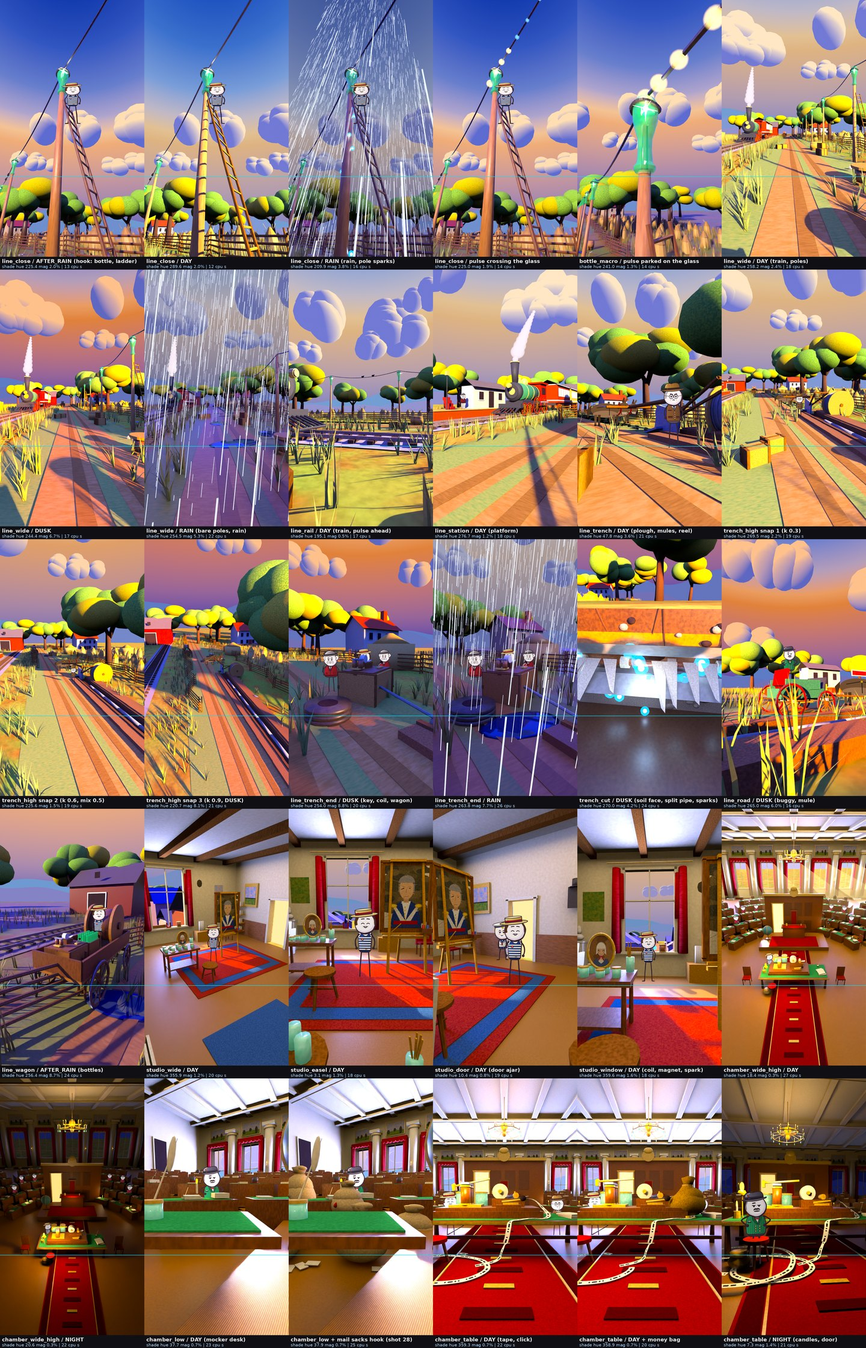
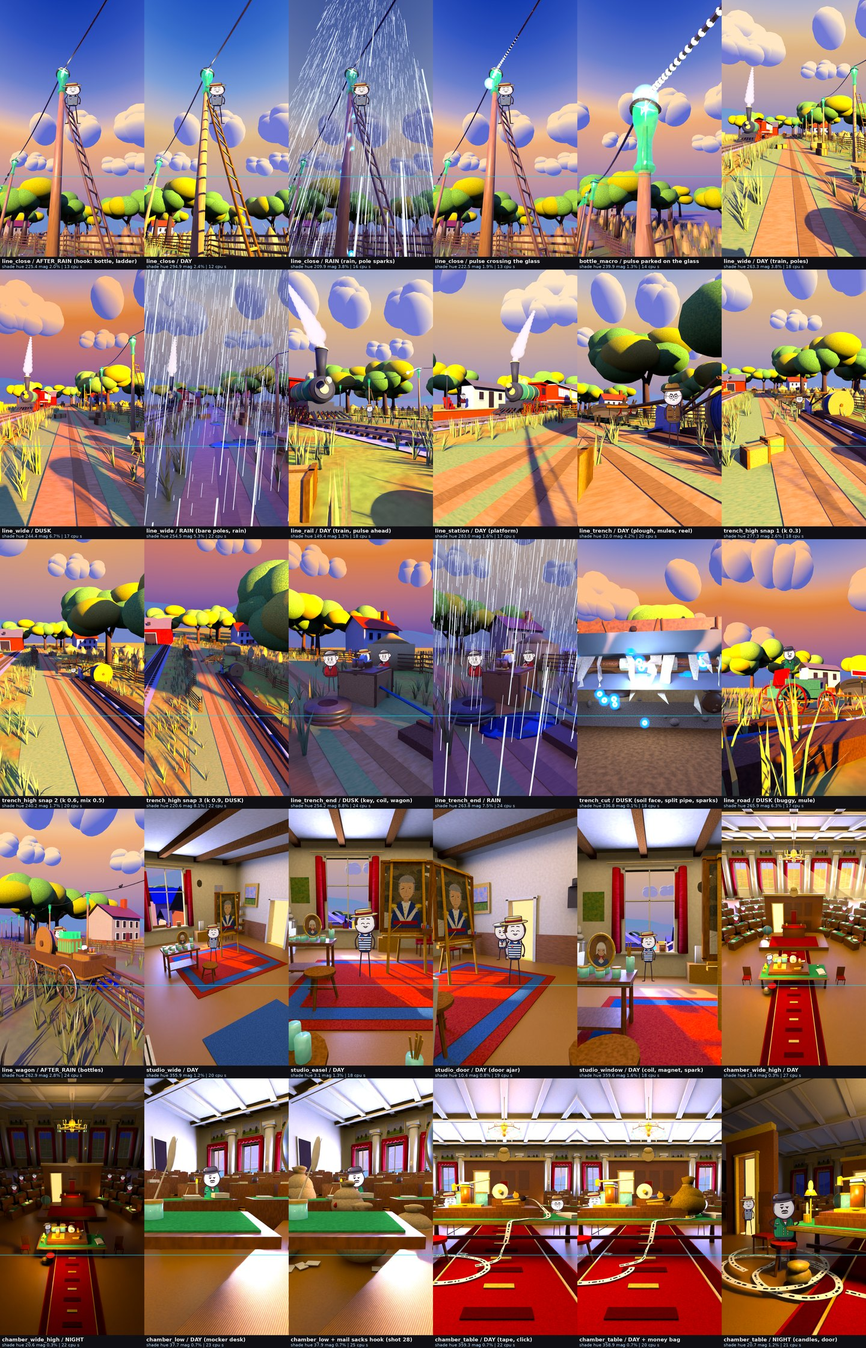
Film 16 set3d16: SET-gate fix round 2 (6 blockers)
Claude-Session: https://claude.ai/code/session_017iwyCubH2HLT9mxU3qDwtU

diff --git a/film/v3/set3d16/telegraph.py b/film/v3/set3d16/telegraph.py
@@ -35,7 +35,7 @@ def kdir(az, el):
 
 _L = dict(sun_angle=1.0, exposure=0.0, sat=1.08, wet=0.0, cloud_k=1.0, hill_k=1.0, fill=0.0, win=0.0, candle=0.0, lamp=0.0)
 LINE_LIGHTS = dict(
-    DAY=dict(_L, key=(1.0, 0.85, 0.63, 14.0), az=150, el=24, sky_k=0.85, amb=('#3e58ff', 2.2),
+    DAY=dict(_L, key=(1.0, 0.85, 0.63, 14.0), az=150, el=24, sky_k=0.85, amb=('#4256ff', 2.2),
              sky=['#8a92d8', '#efc698', '#f3d3a8', '#cdc8d8', '#8db0ec', '#5a86e0', '#3a5acb'], hills=['#9a9ad2', '#8aa0d8', '#7ea4d6'], cloud=('#ffeacc', '#7c84d8')),
     DUSK=dict(_L, key=(1.0, 0.55, 0.3, 27.0), az=150, el=12, sun_angle=1.3, sky_k=0.95, amb=('#3a62ff', 2.9),
               sky=['#4a52b8', '#e6905a', '#f0a876', '#b8a4c0', '#6a86d8', '#3e58c0', '#262c98'], hills=['#7a78b8', '#6e7cc0', '#6a84c8'], cloud=('#ffc89a', '#6a72c4')),
@@ -395,7 +395,7 @@ CAMS_M = dict(
     line_wide=((-0.2, -6.0, 1.9), (1.6, 30.0, 2.9)),
     line_close=((2.9, 0.7, 1.2), (4.6, 3.9, 3.7)),
     bottle_macro=((3.5, 2.0, 4.6), (4.35, 4.0, 5.7)),
-    line_rail=((-14.5, 12.0, 1.4), (2.0, 17.0, 2.9)),
+    line_rail=((-13.0, 12.0, 1.4), (2.0, 30.0, 2.9)),
     line_station=((3.0, 33.0, 1.6), (-10.5, 52.0, 2.4)),
     line_trench=((-0.6, 27.2, 1.0), (3.4, 33.5, 1.6)),
     line_trench_high=((-2.0, 16.0, 4.5), (3.6, 34.0, 0.8)),
@@ -403,9 +403,9 @@ CAMS_M = dict(
     line_trench_snap2=((-1.5, 22.0, 4.2), (3.3, 41.0, 0.8)),
     line_trench_snap3=((-2.0, 34.0, 7.5), (3.3, 58.0, 0.4)),
     line_trench_end=((0.6, 60.0, 1.8), (3.8, 65.0, 1.0)),
-    trench_cut=((52.3, 11.1, 0.1), (52.0, 13.3, -0.85)),
+    trench_cut=((52.2, 11.0, -1.05), (52.0, 13.3, -0.75)),
     line_road=((6.4, 32.6, 1.0), (1.0, 36.0, 1.8)),
-    line_wagon=((1.8, 65.0, 2.9), (-1.9, 70.0, 1.4)),
+    line_wagon=((-4.6, 63.8, 2.5), (-0.9, 69.5, 2.2)),
     # STUDIO
     studio_wide=((-3.3, -2.2, 3.0), (1.0, 4.6, 0.6)),
     studio_easel=((-0.2, -0.6, 1.5), (-0.2, 3.6, 0.95)),
@@ -415,7 +415,7 @@ CAMS_M = dict(
     chamber_wide_high=((0.0, -5.0, 8.0), (0.0, 14.0, -1.0)),
     chamber_low=((-3.0, 8.6, 1.05), (-5.27, 12.27, 0.55)),
     chamber_table=((0.1, -0.3, 1.5), (0.1, 5.6, 1.15)),
-    chamber_table_night=((-0.95, -0.4, 1.45), (0.3, 13.0, 0.9)),
+    chamber_table_night=((-0.5, 0.6, 1.45), (-4.5, 7.5, 1.2)),
 )
 EXTRA_CAMS = {'line': ['line_station', 'line_trench_snap1', 'line_trench_snap2', 'line_trench_snap3'], 'studio': [], 'chamber': ['chamber_table_night']}
 LIGHT_CAM = {('chamber_table', 'NIGHT'): 'chamber_table_night'}
@@ -460,7 +460,7 @@ PRESETS = dict(
     line_close=dict(loc='line', light='AFTER_RAIN', cam='line_close', state=dict(poles=('bottle', 17), trench=0.0, pipe=0.0, train=None)),
     bottle_macro=dict(loc='line', light='AFTER_RAIN', cam='bottle_macro', state=dict(poles=('bottle', 17), trench=0.0, pipe=0.0, train=None, pulse=('pole', 1))),
     line_wide=dict(loc='line', light='DAY', cam='line_wide', state=dict(poles=('bottle', 17), trench=0.0, pipe=0.0, train='home')),
-    line_rail=dict(loc='line', light='DAY', cam='line_rail', state=dict(poles=('bottle', 17), trench=0.0, pipe=0.0, train=31.5, pulse=('y', 9.5))),
+    line_rail=dict(loc='line', light='DAY', cam='line_rail', state=dict(poles=('bottle', 17), trench=0.0, pipe=0.0, train=40.7, pulse=('y', 23.5))),
     line_trench=dict(loc='line', light='DAY', cam='line_trench', state=dict(poles=('none', 0), trench=0.5, pipe=0.45, train=None)),
     line_trench_high=dict(loc='line', light='DAY', cam='line_trench_high', state=dict(poles=('none', 0), trench=0.7, pipe=0.6, train=None)),
     line_trench_end=dict(loc='line', light='DUSK', cam='line_trench_end', state=dict(poles=('none', 0), trench=1.0, pipe=1.0, train=None)),
@@ -686,7 +686,7 @@ def set_leak(where='pipe', intensity=1.0, frame=None):
         if frame is not None: _keyxf(core, frame, True, False, True); _keyxf(halo, frame, True, False, True)
 
 def _make_sparks(where):
-    M = STATE['M']; core_m = _emit_mat('sparkcore', '#c8e8ff', 30.0); halo_m = _emit_mat('sparkhalo', '#4a8cff', 6.0, 0.35); rr = rnd(55); objs = []; ph = []
+    M = STATE['M']; core_m = _emit_mat('sparkcore', '#c8e8ff', 40.0); halo_m = _glow_mat('sparkhalo', '#4a8cff', 4.0, 3.0); rr = rnd(55); objs = []; ph = []
     n = 18 if where == 'pipe' else 12
     for j in range(n):
         for nm, m_ in (('c', core_m), ('h', halo_m)):
@@ -712,20 +712,28 @@ def _make_sparks(where):
     return dict(objs=[tuple(o) for o in objs], rate=rate, ph=ph)
 
 def set_pulse(s, frame=None):
-    """glowing bead + short trail travelling along the wire: s 0..1 over the whole line (over every bottle neck in 'bottle' state); s < 0 hides it."""
+    """hot cyan-white bead + a continuous tapered trail (41 beads, tightly spaced) along the whole wire, s 0..1 (path follows the current pole state: over the glass of every bottle, or the bare wire);
+    a small cyan light travels with the head (rim glow inside the glass when it is parked on a bottle); s < 0 hides it."""
     _line_only()
     if 'pulse' not in STATE:
         if s < 0: return
         _make_pulse()
     Pz = STATE['pulse']; st = STATE.get('pole_state', ('bottle', LN.NPOLE))[0]; st = st if st in ('bottle', 'bare') else 'bottle'
-    pts, cum = STATE['wire_pts'][st]; tot = cum[-1]
+    pts, cum = STATE['wire_pts'][st]; tot = cum[-1]; lo = STATE['pulse_light']
     for k, (core, halo, lag) in enumerate(Pz):
-        ss = s - lag
-        if s < 0 or ss < 0 or ss > 1: _show([core, halo], False, frame); continue
+        ss = s - lag; objs = [core] + ([halo] if halo is not None else [])
+        if s < 0 or ss < 0 or ss > 1:
+            _show(objs, False, frame)
+            if k == 0: _setv(lo, False, frame)
+            continue
         d = ss * tot; i = int(np.searchsorted(cum, d)); i = max(1, min(i, len(cum) - 1)); u = (d - cum[i - 1]) / max(1e-6, cum[i] - cum[i - 1])
-        p = Vector(pts[i - 1]).lerp(Vector(pts[i]), u); pw = W(p); _show([core, halo], True, frame)
-        core.location = halo.location = pw; sc_ = 1.0 - 0.09 * k; core.scale = (sc_,) * 3; halo.scale = (sc_,) * 3
-        if frame is not None: _keyxf(core, frame, True, False, True); _keyxf(halo, frame, True, False, True)
+        p = Vector(pts[i - 1]).lerp(Vector(pts[i]), u); pw = W(p); _show(objs, True, frame)
+        for o in objs: o.location = pw
+        if frame is not None:
+            for o in objs: _keyxf(o, frame)
+        if k == 0:
+            lo.location = pw; _setv(lo, True, frame)
+            if frame is not None: _keyxf(lo, frame)
 
 def _glow_mat(name, hexcol, k, power=1.6):
     """soft glow: emission whose opacity is 1 at the centre and falls to 0 at the silhouette"""
@@ -736,13 +744,17 @@ def _glow_mat(name, hexcol, k, power=1.6):
     L(K.cos_facing(nt, power), mx.inputs[0]); L(tr.outputs[0], mx.inputs[1]); L(em.outputs[0], mx.inputs[2]); L(mx.outputs[0], out.inputs['Surface']); MATS[name] = m; return m
 
 def _make_pulse():
-    core_m = _emit_mat('pulsecore', '#fff6d0', 90.0); halo_m = _glow_mat('pulsehalo', '#ffd890', 3.2, 3.0); halo2_m = _glow_mat('pulsehalo2', '#78b8ff', 2.0, 3.0); L = []
-    for k in range(10):
-        r = 0.032 * (1.0 - 0.07 * k) * SC
-        mb = MB('pulse_c%d' % k); mb.T = Matrix.Identity(4); mb.ell(core_m, (0, 0, 0), (r,) * 3, (12, 8)); c = mb.finish()[0]
-        mb = MB('pulse_h%d' % k); mb.T = Matrix.Identity(4); mb.ell(halo_m if k < 4 else halo2_m, (0, 0, 0), (r * 5.0,) * 3, (14, 10)); h = mb.finish()[0]
-        for o in (c, h): o.visible_shadow = False; o.visible_glossy = False
-        L.append((c, h, 0.0036 * k))
+    """ONE hot cyan-white head (core + small soft glow + a small cyan light) and a continuous tapered trail of 40 tightly spaced beads along the wire"""
+    core_m = _emit_mat('pulsecore', '#e4fbff', 80.0); halo_m = _glow_mat('pulsehalo', '#8fe0ff', 5.0, 2.5); L = []
+    for k in range(41):
+        r = (0.050 * (1.0 - k / 41.0) ** 1.3 + 0.006) * SC
+        mb = MB('pulse_c%d' % k); mb.T = Matrix.Identity(4); mb.ell(core_m, (0, 0, 0), (r,) * 3, (12, 8) if k < 6 else (8, 6)); c = mb.finish()[0]; c.visible_shadow = False; c.visible_glossy = False
+        h = None
+        if k == 0:
+            mb = MB('pulse_h0'); mb.T = Matrix.Identity(4); mb.ell(halo_m, (0, 0, 0), (r * 4.2,) * 3, (14, 10)); h = mb.finish()[0]; h.visible_shadow = False; h.visible_glossy = False
+        L.append((c, h, 0.0007 * k))
+    ld = bpy.data.lights.new('pulse_light', 'POINT'); ld.color = (0.55, 0.85, 1.0); ld.energy = 5.0 * SC * SC; ld.shadow_soft_size = 0.05 * SC; ld.use_shadow = False
+    lo = bpy.data.objects.new('pulse_light', ld); bpy.context.scene.collection.objects.link(lo); STATE['pulse_light'] = lo
     STATE['pulse'] = L
 
 # ----------------------------------------------------------------------------- CLI

diff --git a/film/v3/set3d16/tg_line.py b/film/v3/set3d16/tg_line.py
@@ -196,7 +196,8 @@ def wagon2(mb, M, c, yaw=0.0):
     for sy in (-0.52, 0.52): mb.cyl(M['woodpale'], (1.2, sy, z0 - 0.1), 0.85, 0.1, 'y', 24)
     mb.cyl(M['spool'], (1.2, 0, z0 - 0.1), 0.66, 0.96, 'y', 24, True); mb.cyl(M['wood'], (1.2, 0, z0 - 0.1), 0.15, 1.3, 'y', 10)
     mb.rod(M['wiremat'], (1.2, -0.3, z0 - 0.1 + 0.66), (1.9, -0.3, 1.1), 0.02, 0.02, 4)
-    bottle_crate(mb, M, (-0.35, 0.0, 1.01), 0.0, (6, 3), 2.4)
+    mb.box(M['woodpale'], (-0.35, 0.0, 1.26), (1.0, 0.8, 0.5)); mb.box(M['wood'], (-0.35, 0.0, 1.52), (1.04, 0.84, 0.04))        # pallet box lifts the bottle crate above the side boards
+    bottle_crate(mb, M, (-0.35, 0.0, 1.54), 0.0, (6, 3), 2.9)
     key_station(mb, M, (-1.6, 0.0, 1.01), 0.0, 1.0)
     mb.pop()
 
@@ -345,8 +346,8 @@ def build_line(ST, P):
         for i in range(5): mb.ell(M['earth'], (xc(y0) + 3.4 + i * 0.4 + 0.0, y0 + i * 0.2, 0.15), (0.55, 0.45, 0.28), (8, 6)) if False else None
     mb.finish()
     # ----- trench (clipped by the TRENCH group) + pipe (PIPE group)
-    mtd = mat('trdark', '#4a2c1c', '#5e3a26', 3, clip='TRENCH'); mte = mat('trearth', '#8c5a38', '#b0744a', 6, contrast=1.3, wet=True, clip='TRENCH')
-    mpl = mat('leadclip', '#948d80', '#aaa396', 3, rough=0.5, sheen=0.05, clip='PIPE'); mbd = mat('trwall', '#6a4228', '#8a5a38', 5, contrast=1.3, clip='TRENCH')
+    mtd = mat('trdark', '#3a2216', '#4a2c1c', 3, clip='TRENCH'); mte = mat('trearth', '#5e3a24', '#7a4c30', 6, contrast=1.3, wet=True, clip='TRENCH')
+    mpl = mat('leadclip', '#7a7d84', '#7a7d84', 3, rough=1.0, sheen=0.0, clip='PIPE'); mbd = mat('trwall', '#4e301e', '#6a4228', 5, contrast=1.3, clip='TRENCH')
     mb = MB('trench')
     for y0 in range(int(Y0), int(Y1) + 4, 2):
         xt = xc(y0 + 1) + 2.3
@@ -454,7 +455,7 @@ def build_pit(ST, M):
     cx, cy = PIT; hw, hl, d = PIT_HW, PIT_HL, PIT_D; fy = cy + hl; z0 = -0.72; R_ = 0.17
     top = mat('strat_top', '#4a2c1c', '#6a4228', 5, contrast=1.5, rough=0.45, sheen=0.3, wet=True); clay = mat('strat_clay', '#a8683c', '#c8844c', 5, contrast=1.3, rough=0.5, sheen=0.25, wet=True)
     sand = mat('strat_sand', '#c89c64', '#e0b878', 6, contrast=1.3, rough=0.55, sheen=0.2, wet=True); grav = mat('strat_grav', '#8a7664', '#b09c88', 14, contrast=1.9, rough=0.5, sheen=0.2, wet=True)
-    mud = mat('strat_mud', '#3a2418', '#52341f', 5, rough=0.35, sheen=0.4)
+    mud = mat('strat_mud', '#5a3a24', '#7a5030', 5, contrast=1.5, rough=1.0, sheen=0.0)
     mb = MB('pit')
     bands = [(0.0, -0.32, top), (-0.32, -0.85, clay), (-0.85, -1.25, sand), (-1.25, -d, grav)]
     def wall(x0, x1, y_, facing, bnds=bands):
@@ -503,13 +504,19 @@ def build_pit(ST, M):
         xx = x1 + 0.1 + i * 0.12; mb.rod(cloth if i % 2 else tar, (xx, yw, z0 - 0.06), (xx + 0.08, yw, z0 + 0.06), 0.085, 0.085, 8)
     for i in range(7):                                                                      # remnants of the wrapping inside the split, ragged
         xx = x0 + 0.25 + i * 0.33; mb.rod(cloth, (xx, yw, z0 + 0.0), (xx + 0.12, yw, z0 + 0.0), 0.09, 0.09, 8) if i % 2 == 0 else None
-    for i in range(16):                                                                     # torn strips hanging toward the camera and down
-        xx = rcl.uniform(x0 - 0.3, x1 + 0.3); ln = rcl.uniform(0.25, 0.65); sg = rcl.choice((-1, 1)) * 0.12
-        mb.quad(cloth, [(xx, yw - 0.1, z0 + 0.08), (xx + 0.2, yw - 0.1, z0 + 0.08), (xx + 0.1 + sg, yw - 0.28 - ln * 0.3, z0 + 0.08 - ln), (xx + sg * 1.4, yw - 0.26 - ln * 0.3, z0 + 0.08 - ln * 0.9)])
+    for i in range(22):                                                                     # ragged torn cloth strips: jagged outline, different lengths, hanging toward the camera and down
+        xx = rcl.uniform(x0 - 0.35, x1 + 0.35); ln = rcl.uniform(0.18, 0.7); w0_ = rcl.uniform(0.05, 0.16); drift = rcl.uniform(-0.12, 0.12)
+        left = [(xx, yw - 0.1, z0 + 0.1)]; right = [(xx + w0_, yw - 0.1, z0 + 0.1)]
+        for j in range(1, 5):
+            u = j / 4.0; zz = z0 + 0.1 - ln * u; yy = yw - 0.1 - 0.18 * u
+            left.append((xx + drift * u + rcl.uniform(-0.03, 0.03), yy, zz)); right.append((xx + w0_ * (1.0 - 0.5 * u) + drift * u + rcl.uniform(-0.04, 0.04), yy - rcl.uniform(0, 0.02), zz + rcl.uniform(-0.04, 0.06)))
+        tip = (xx + w0_ * 0.4 + drift + rcl.uniform(-0.05, 0.05), yw - 0.3, z0 + 0.1 - ln - rcl.uniform(0.03, 0.12))
+        for j in range(4): mb.quad(cloth, [left[j], right[j], right[j + 1], left[j + 1]])
+        mb.tri(cloth, [left[4], right[4], tip])
     mb.finish()
     la = bpy.data.lights.new('pitsky', 'AREA'); la.shape = 'RECTANGLE'; la.size = 7.0 * SC; la.size_y = 3.0 * SC; la.color = (0.5, 0.62, 1.0); la.energy = 300.0 * SC * SC
     lo = bpy.data.objects.new('pitsky', la); lo.location = W((cx, cy - 0.4, 1.6)); bpy.context.scene.collection.objects.link(lo); lo.visible_camera = False; la.use_shadow = False
-    lb = bpy.data.lights.new('pitspark', 'POINT'); lb.color = (0.4, 0.62, 1.0); lb.energy = 22.0 * SC * SC; lb.shadow_soft_size = 0.12 * SC
+    lb = bpy.data.lights.new('pitspark', 'POINT'); lb.color = (0.4, 0.62, 1.0); lb.energy = 60.0 * SC * SC; lb.shadow_soft_size = 0.12 * SC
     ob = bpy.data.objects.new('pitspark', lb); ob.location = W((cx, fy - 0.5, z0 - 0.2)); bpy.context.scene.collection.objects.link(ob)
     lw = bpy.data.lights.new('pitwarm', 'POINT'); lw.color = (1.0, 0.72, 0.42); lw.energy = 7.0 * SC * SC; lw.shadow_soft_size = 0.2 * SC; lw.use_shadow = False
     ow = bpy.data.objects.new('pitwarm', lw); ow.location = W((cx, fy - 0.8, z0 + 0.35)); bpy.context.scene.collection.objects.link(ow)

diff --git a/film/v3/set3d16/tg_chamber.py b/film/v3/set3d16/tg_chamber.py
@@ -12,7 +12,8 @@ TABLE = (0.0, 4.2); TW = 4.8
 TG_S = 3.0                                   # telegraph scale on the table
 TG_C = (TABLE[0] - 0.35, TABLE[1] + 0.1, 0.96)
 TAPE_W = 0.12
-STOOL = (-1.45, 3.05)
+STOOL = (-2.3, 3.3)
+SDOOR = (-5.6, 5.6)                           # lit side doorway on a short panelled wing (closer to the table than the speaker's door-screen)
 SCREEN_Y = 13.4
 TIERS = [6.5, 9.0, 11.5, 14.0, 16.5]
 MOCK_A = math.radians(136)                    # front-row desk of the mocker
@@ -22,7 +23,7 @@ def seat(ti, a, d=0.95):
     (x, y), z = desk_pos(ti, a); return (x + d * math.cos(a), y + d * math.sin(a), z)
 MARKS = dict(morse_table=(-1.9, 5.4, 0.0), clerk_table=(2.0, 5.4, 0.0), mocker_table=(0.35, 6.5, 0.0), mocker_stool=(STOOL[0], STOOL[1], 0.0), mocker_desk=seat(0, MOCK_A),
              cong_a=seat(1, math.radians(98)), cong_b=seat(1, math.radians(140)), cong_c=seat(2, math.radians(70)), cong_d=seat(0, math.radians(150)), cong_e=seat(0, math.radians(40)),
-             morse_door=(-1.9, SCREEN_Y - 0.15, 0.0), mocker_post=seat(0, MOCK_A), table_front=(0.0, 3.0, 0.0), dais=(0.0, 10.0, 0.4))
+             morse_door=(SDOOR[0], SDOOR[1] - 0.12, 0.0), morse_door_back=(-1.9, SCREEN_Y - 0.15, 0.0), mocker_post=seat(0, MOCK_A), table_front=(0.0, 3.0, 0.0), dais=(0.0, 10.0, 0.4))
 SEAT = dict(mocker_stool=0.56)
 
 def mats():
@@ -163,6 +164,12 @@ def build_chamber(ST, P):
     mb.box(M['leather'], (0, 12.6, 0.95), (0.8, 0.7, 0.1)); mb.box(M['walnut'], (0, 13.0, 1.9), (0.8, 0.1, 2.2)); mb.box(M['leather'], (0, 12.95, 2.0), (0.6, 0.03, 1.7))
     mb.box(M['gold'], (0.8, 11.2, 1.8), (0.1, 0.1, 0.3)); mb.cyl(M['gold'], (-0.8, 11.2, 1.85), 0.1, 0.3, 'z', 10)
     sw, sh = 6.8, 4.6                                                                                          # screen: panelled wall with a doorway at x 0
+    wx0_, wx1_ = SDOOR[0] - 1.4, SDOOR[0] + 1.4; sy_w = SDOOR[1]; wh = 4.2                                           # side wing with a lit doorway
+    for (xa, xb) in ((wx0_, SDOOR[0] - 0.55), (SDOOR[0] + 0.55, wx1_)):
+        mb.box(M['screenw'], ((xa + xb) / 2, sy_w, wh / 2), (xb - xa, 0.3, wh)); mb.box(M['panel'], ((xa + xb) / 2, sy_w - 0.17, 1.2), (xb - xa - 0.2, 0.06, 1.3))
+    mb.box(M['screenw'], (SDOOR[0], sy_w, 3.4 + (wh - 3.4) / 2), (1.1, 0.3, wh - 3.4)); mb.box(M['doorlit'], (SDOOR[0], sy_w + 0.3, 1.7), (1.1, 0.1, 3.4)); mb.box(M['doorlit'], (SDOOR[0], sy_w + 0.12, 0.02), (1.1, 0.4, 0.04))
+    mb.box(M['gold'], (SDOOR[0], sy_w - 0.2, wh + 0.1), (2.9, 0.3, 0.2)); mb.box(M['gold'], (SDOOR[0], sy_w - 0.2, 3.45), (1.4, 0.22, 0.08))
+    for sgn in (-1, 1): mb.box(M['gold'], (SDOOR[0] + sgn * 0.6, sy_w - 0.2, 1.7), (0.1, 0.2, 3.4))
     DX = -1.9                                                                                                 # the doorway sits left of the speaker's chair so the chair does not hide it
     for (xa, xb) in ((-sw / 2, DX - 0.62), (DX + 0.62, sw / 2)):
         mb.box(M['screenw'], ((xa + xb) / 2, SCREEN_Y, sh / 2), (xb - xa, 0.3, sh))
@@ -280,7 +287,7 @@ def lights(ST, win_x, sconces):
     point('tablecandle', (tx - 1.9, ty - 0.5, 1.9), (1.0, 0.68, 0.32), 45, 'lamp', 0.1); point('tablecandle2', (tx - 2.1, ty - 0.2, 1.5), (1.0, 0.68, 0.32), 22, 'lamp', 0.1)
     for i, (x, y, z) in enumerate(ST['desk_candles']): point('deskc%d' % i, (x, y, z + 0.08), (1.0, 0.68, 0.32), 14, 'lamp', 0.08)
     point('daisc', (0.0, 10.4, 2.0), (1.0, 0.66, 0.3), 30, 'candle', 0.1)
-    point('stoolc', (STOOL[0] + 0.45, STOOL[1] - 0.15, 1.9), (1.0, 0.62, 0.28), 70, 'nightc', 0.08); point('doorlight', (-1.9, SCREEN_Y + 1.2, 2.2), (1.0, 0.7, 0.35), 60, 'candle', 0.2)
+    point('stoolc', (STOOL[0] + 0.45, STOOL[1] - 0.15, 1.9), (1.0, 0.62, 0.28), 70, 'nightc', 0.08); point('doorlight', (-1.9, SCREEN_Y + 1.2, 2.2), (1.0, 0.7, 0.35), 60, 'candle', 0.2); point('doorlight2', (SDOOR[0], SDOOR[1] + 1.2, 2.0), (1.0, 0.7, 0.35), 50, 'candle', 0.2)
 
 def apply_state(ST, st):
     set_tape(st.get('tape', 0.0)); set_click(st.get('click', 0)); set_moneybag(st.get('moneybag', False)); set_mailsacks(st.get('mailsacks', False)); set_flames(1.0)

diff --git a/film/v3/set3d16/telegraph_kit.py b/film/v3/set3d16/telegraph_kit.py
@@ -175,7 +175,7 @@ def palette():
     d['ballast'] = mat('ballast', '#9a8e86', '#c0aea0', 14, contrast=1.8, wet=True)
     d['sleeper'] = mat('sleeper', '#4a3426', '#6a4a34', 5, wet=True)
     d['rail'] = mat('rail', '#7a6058', '#a88c80', 3, rough=0.4, sheen=0.6)
-    d['lead'] = mat('lead', '#948d80', '#aaa396', 3, rough=0.5, sheen=0.05)
+    d['lead'] = mat('lead', '#7a7d84', '#7a7d84', 3, rough=1.0, sheen=0.0)
     d['straw'] = mat('straw', '#d6b25a', '#eccb78', 7, contrast=1.3, wet=True)
     d['strawdk'] = mat('strawdk', '#b08a3c', '#d0a850', 7, wet=True)
     d['wheat'] = mat('wheat', '#c8a848', '#dcc068', 6, zgrad=(0.0, 0.5, '#8a9a46'), contrast=1.4, wet=True)
@@ -243,7 +243,7 @@ def glass_mat():
     m = bpy.data.materials.new('glass'); m.use_nodes = True; nt = m.node_tree; nt.nodes.clear(); N = nt.nodes.new; L = nt.links.new
     out = N('ShaderNodeOutputMaterial'); bs = N('ShaderNodeBsdfPrincipled')
     bs.inputs['Base Color'].default_value = hexc('#2fa858'); bs.inputs['Roughness'].default_value = 0.04; bs.inputs['Specular IOR Level'].default_value = 1.0; bs.inputs['Alpha'].default_value = 0.62
-    bs.inputs['Emission Color'].default_value = hexc('#3fc070'); bs.inputs['Emission Strength'].default_value = 0.35
+    bs.inputs['Emission Color'].default_value = hexc('#3fc070'); bs.inputs['Emission Strength'].default_value = 0.9
     L(bs.outputs[0], out.inputs['Surface']); MATS['glass'] = m; return m
 
 def smoke_mat():
